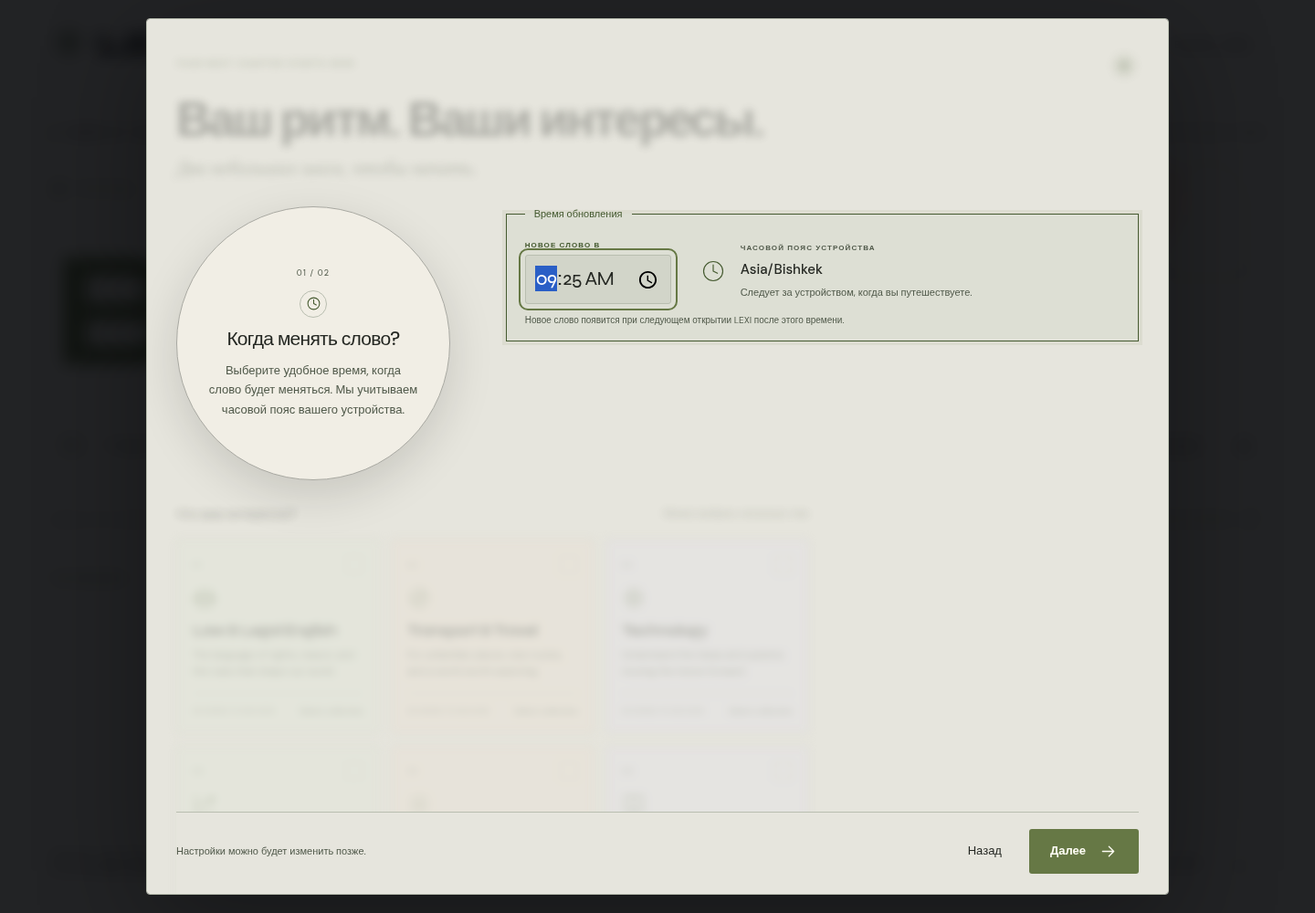
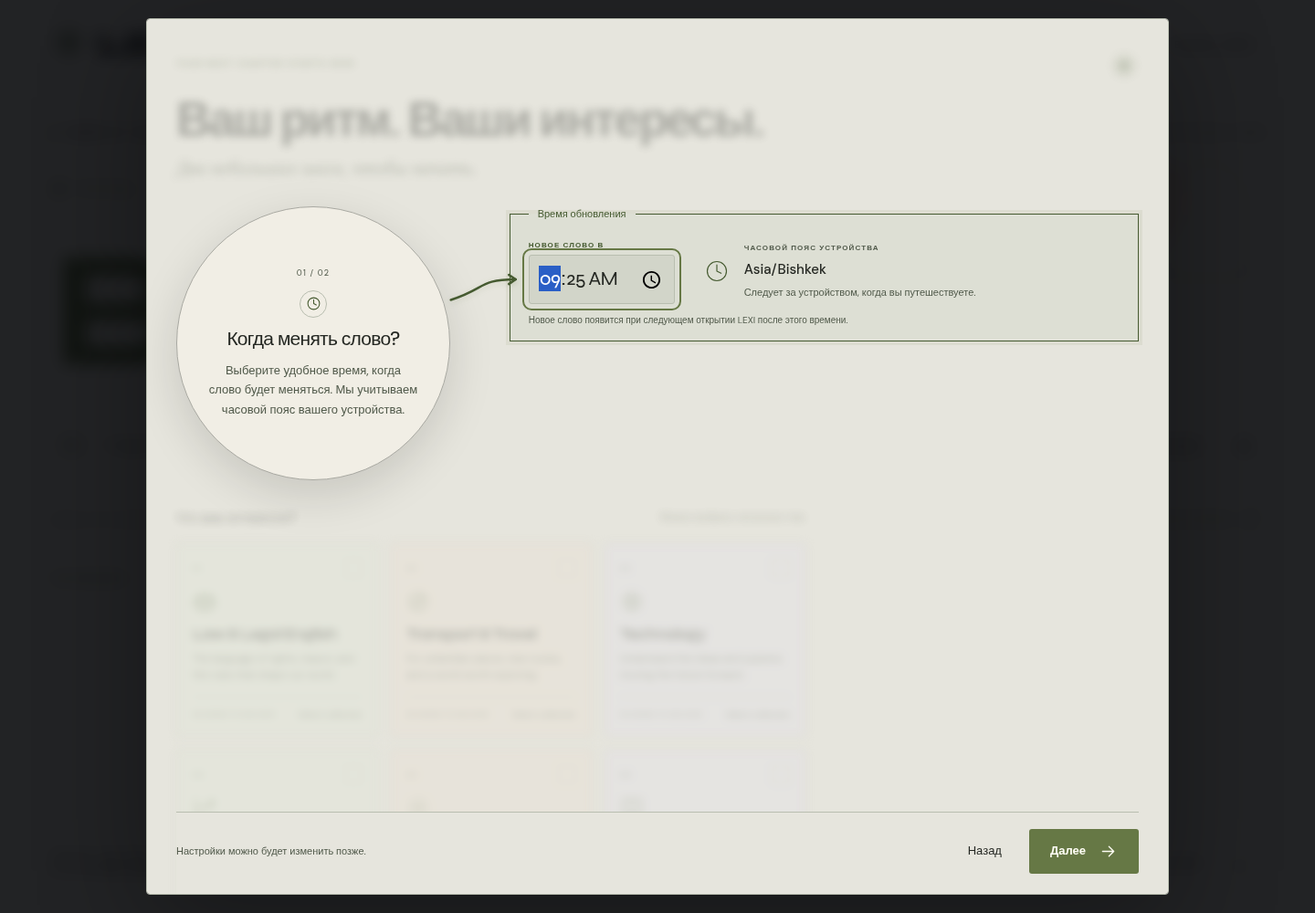
Smooth onboarding circle travel and point to active settings

Changed region(s): [[0.3438, 0.217, 0.7188, 0.372]]

diff --git a/static/js/onboarding-guide.js b/static/js/onboarding-guide.js
@@ -11,25 +11,69 @@ export function createOnboardingGuide({dialog,account,getState,saveState}) {
   const $=selector=>dialog.querySelector(selector);
   const language=$('#onboarding-language'),content=$('.onboarding-content');
   const time=$('#onboarding-time'),topics=$('#onboarding-topics'),coach=$('#onboarding-coach');
+  const pointer=$('.guide-pointer'),pointerPath=pointer.querySelector('.guide-pointer-line'),pointerHead=pointer.querySelector('.guide-pointer-head');
   const back=$('#onboarding-back'),next=$('#onboarding-next'),begin=$('#begin-button');
   const hint=document.querySelector('#settings-guide-dialog'),hintCircle=hint.querySelector('.guide-circle');
   const media=matchMedia('(prefers-reduced-motion: reduce)');
-  let step=null,scope=null,motion=null,hintScheduled=false,hintTarget=null,placeholder=null,targetStyle='',targetLabel='',hintScope=null,hintGeneration=0;
+  let step=null,scope=null,motion=null,motionFrame=0,motionScrollTo=null,pointerFrame=0,hintScheduled=false,hintTarget=null,placeholder=null,targetStyle='',targetLabel='',hintScope=null,hintGeneration=0;
   const lang=()=>Object.hasOwn(copy,getState().guideLanguage)?getState().guideLanguage:'en';
   const text=()=>copy[lang()];
   const reduced=()=>media.matches||getState().reduceMotion;
   const selected=()=>[...dialog.querySelectorAll('input[name="onboarding"]:checked')].map(input=>input.value);
   const value=()=>$('#onboarding-update-time')?.value;
-  function stopMotion(){motion?.cancel();motion=null;}
-  function moveCircle(previous) {
+  function stopMotion({finish=false}={}){cancelAnimationFrame(motionFrame);motionFrame=0;motion?.cancel();motion=null;if(finish&&motionScrollTo!==null)dialog.scrollTop=motionScrollTo;motionScrollTo=null;pointer.style.opacity='1';}
+  function positionPointer() {
+    if(!dialog.open||coach.hidden||account.isGuest||!['time','collections'].includes(step)){pointer.setAttribute('hidden','');return;}
+    const bubble=coach.getBoundingClientRect(),bounds=dialog.getBoundingClientRect();
+    const target=(step==='time'?$('#onboarding-update-time'):$('.onboarding-prompt')).getBoundingClientRect();
+    const narrow=innerWidth<=600;
+    const end=narrow?{x:target.left+target.width/2,y:target.top-12}:
+      {x:step==='time'?target.left-14:target.right+12,y:target.top+target.height/2};
+    const center={x:bubble.left+bubble.width/2,y:bubble.top+bubble.height/2};
+    const angle=Math.atan2(end.y-center.y,end.x-center.x),radius=bubble.width/2+8;
+    const start={x:center.x+Math.cos(angle)*radius,y:center.y+Math.sin(angle)*radius};
+    // Keep the decorative line inside the visible dialog; it never takes a click.
+    const outside=end.y<bounds.top+8||end.y>bounds.bottom-8||end.x<bounds.left+8||end.x>bounds.right-8;
+    pointer.toggleAttribute('hidden',outside);
+    if(outside)return;
+    pointer.style.clipPath=`inset(${Math.max(0,bounds.top+1)}px ${Math.max(0,innerWidth-bounds.right+1)}px ${Math.max(0,innerHeight-bounds.bottom+1)}px ${Math.max(0,bounds.left+1)}px)`;
+    const bend=Math.max(18,Math.min(80,Math.hypot(end.x-start.x,end.y-start.y)*.55));
+    const direction=step==='time'?1:-1;
+    const c1={x:start.x+Math.cos(angle)*bend,y:start.y+Math.sin(angle)*bend};
+    const c2=narrow?{x:end.x,y:end.y-bend}:{x:end.x-direction*bend,y:end.y};
+    const heading=Math.atan2(end.y-c2.y,end.x-c2.x),head=9,spread=.6;
+    pointerPath.setAttribute('d',`M ${start.x} ${start.y} C ${c1.x} ${c1.y}, ${c2.x} ${c2.y}, ${end.x} ${end.y}`);
+    pointerHead.setAttribute('d',`M ${end.x-head*Math.cos(heading-spread)} ${end.y-head*Math.sin(heading-spread)} L ${end.x} ${end.y} L ${end.x-head*Math.cos(heading+spread)} ${end.y-head*Math.sin(heading+spread)}`);
+  }
+  function queuePointer(){if(!motion&&!pointerFrame)pointerFrame=requestAnimationFrame(()=>{pointerFrame=0;positionPointer();});}
+  function moveCircle(previous,scrollFrom,scrollTo) {
     stopMotion();
-    if(reduced()||!coach.animate)return;
+    if(reduced()||!coach.animate){positionPointer();return;}
+    // Scroll and travel share one clock, so the panel does not jump underneath the circle.
+    if(previous?.width)dialog.scrollTop=scrollFrom;
+    scrollFrom=dialog.scrollTop;
     const current=coach.getBoundingClientRect();
-    motion=coach.animate([
-      {opacity:previous?.width ? .7 : 0,transform:previous?.width?`translate(${previous.left-current.left}px,${previous.top-current.top}px) scale(.96)`:'translateY(22px) scale(.86)'},
-      {opacity:1,transform:'translate(0,0) scale(1)'},
-    ],{duration:480,easing:'cubic-bezier(.22,1,.36,1)'});
-    motion.finished.catch(()=>{});
+    const travelling=!!previous?.width;
+    const animation=coach.animate(travelling?[
+      {transform:`translate(${previous.left-current.left}px,${previous.top-current.top}px)`},
+      {transform:'translate(0,0)'},
+    ]:[{opacity:0,transform:'translateY(16px) scale(.96)'},{opacity:1,transform:'translateY(0) scale(1)'}],
+    {duration:travelling?1200:800,easing:'cubic-bezier(.42,0,.58,1)'});
+    motion=animation;motionScrollTo=scrollTo;
+    const follow=()=>{
+      if(motion!==animation)return;
+      const progress=animation.effect.getComputedTiming().progress??0;
+      if(scrollFrom!==scrollTo)dialog.scrollTop=scrollFrom+(scrollTo-scrollFrom)*progress;
+      // Reveal the new arrow as the circle arrives, rather than drawing across the controls in transit.
+      pointer.style.opacity=String(travelling?Math.max(0,(progress-.94)/.06):progress);
+      positionPointer();motionFrame=requestAnimationFrame(follow);
+    };
+    follow();
+    animation.finished.then(()=>{
+      if(motion!==animation)return;
+      cancelAnimationFrame(motionFrame);motionFrame=0;motion=null;motionScrollTo=null;
+      dialog.scrollTop=scrollTo;pointer.style.opacity='1';positionPointer();
+    }).catch(()=>{});
   }
   function mute(node,value){node.classList.toggle('guide-muted',value);node.inert=value;if(value)node.setAttribute('aria-hidden','true');else node.removeAttribute('aria-hidden');}
   function syncControls() {
@@ -52,6 +96,8 @@ export function createOnboardingGuide({dialog,account,getState,saveState}) {
   function render(newStep,{animate=true}={}) {
     const changed=step!==newStep||scope!==account.scope;
     const previous=!coach.hidden&&changed?coach.getBoundingClientRect():null;
+    const scrollFrom=dialog.scrollTop;
+    if(changed)stopMotion();
     scope=account.scope;step=newStep;dialog.classList.add('is-guided');dialog.dataset.guideStep=step;
     const choosing=step==='language';language.hidden=!choosing;content.hidden=choosing;
     coach.hidden=choosing;back.hidden=false;next.hidden=step!=='time';begin.hidden=step!=='collections';
@@ -71,13 +117,14 @@ export function createOnboardingGuide({dialog,account,getState,saveState}) {
       else dialog.scrollTo({top:0,behavior:'instant'});
       if(choosing)$('#guide-language-title').focus({preventScroll:true});
       else {
-        if(animate)moveCircle(previous);
+        if(animate)moveCircle(previous,scrollFrom,dialog.scrollTop);
         (step==='time'?$('#onboarding-update-time'):coach.querySelector('h2')).focus({preventScroll:true});
       }
     }
+    positionPointer();
   }
   function useGuest() {
-    stopMotion();step=null;scope=account.scope;
+    stopMotion();pointer.setAttribute('hidden','');step=null;scope=account.scope;
     dialog.classList.remove('is-guided');delete dialog.dataset.guideStep;dialog.lang='en';
     language.hidden=true;content.hidden=false;coach.hidden=true;next.hidden=true;back.hidden=true;begin.hidden=false;
     for(const node of [time,topics,$('.guide-chrome')])mute(node,false);
@@ -144,7 +191,7 @@ export function createOnboardingGuide({dialog,account,getState,saveState}) {
       hint.querySelector('#guide-settings-title').textContent=t.settingsTitle;hint.querySelector('#guide-settings-copy').textContent=t.settingsBody;
       hint.querySelector('#guide-settings-done').textContent=t.done;
       hint.showModal();positionHint();hint.querySelector('h2').focus({preventScroll:true});
-      if(!reduced())hintCircle.animate([{opacity:0,transform:'translateY(18px) scale(.88)'},{opacity:1,transform:'translateY(0) scale(1)'}],{duration:480,easing:'cubic-bezier(.22,1,.36,1)'});
+      if(!reduced())hintCircle.animate([{opacity:0,transform:'translateY(16px) scale(.96)'},{opacity:1,transform:'translateY(0) scale(1)'}],{duration:800,easing:'cubic-bezier(.42,0,.58,1)'});
     });
   }
   hint.addEventListener('click',event=>{if(event.target.closest('#guide-settings-done'))finishHint();else if(event.target.closest('.guide-settings-target')){event.preventDefault();finishHint(true);}});
@@ -156,13 +203,15 @@ export function createOnboardingGuide({dialog,account,getState,saveState}) {
       restoreTarget();if(hint.open)hint.close();
     }
   });
-  window.addEventListener('resize',positionHint);
-  media.addEventListener('change',()=>{if(media.matches){stopMotion();hintCircle.getAnimations().forEach(animation=>animation.cancel());}});
+  dialog.addEventListener('scroll',queuePointer,{passive:true});
+  dialog.addEventListener('close',()=>{if(!dialog.open){stopMotion();pointer.setAttribute('hidden','');}});
+  window.addEventListener('resize',()=>{stopMotion();queuePointer();positionHint();});
+  media.addEventListener('change',()=>{if(media.matches){stopMotion({finish:true});queuePointer();hintCircle.getAnimations().forEach(animation=>animation.cancel());}});
   return {
     open(){if(account.isGuest){useGuest();return;}const state=getState();render(!state.guideLanguage||state.guideStep==='language'?'language':state.guideStep==='collections'?'collections':'time');},
     useGuest,resumeSettingsHint,
     get active(){return !account.isGuest&&dialog.classList.contains('is-guided');},
     canComplete(){return step==='collections'&&validUpdateTime(value())&&selected().length>0;},
-    cancel(){++hintGeneration;stopMotion();step=null;scope=null;hintScheduled=false;restoreTarget();if(hint.open)hint.close();},
+    cancel(){++hintGeneration;stopMotion();pointer.setAttribute('hidden','');step=null;scope=null;hintScheduled=false;restoreTarget();if(hint.open)hint.close();},
   };
 }

diff --git a/static/css/onboarding-guide.css b/static/css/onboarding-guide.css
@@ -13,7 +13,7 @@
 .onboarding-dialog.is-guided{width:min(1120px,calc(100% - 40px));padding:32px;overflow:auto;scroll-behavior:auto}
 .onboarding-dialog[data-guide-step=language]{width:min(620px,calc(100% - 32px))}
 .is-guided .guide-chrome{margin-bottom:24px;overflow-wrap:anywhere}
-.is-guided .onboarding-guide-grid{display:grid;grid-template-columns:repeat(3,minmax(0,1fr));align-items:start;gap:28px}
+.is-guided .onboarding-guide-grid{display:grid;grid-template-columns:repeat(3,minmax(0,1fr));align-items:start;gap:32px 40px}
 .is-guided #onboarding-time{grid-column:2/4;grid-row:1;margin:0;background:var(--surface)}
 .is-guided #onboarding-topics{grid-column:1/3;grid-row:2;min-width:0;scroll-margin-top:16px}
 .is-guided .onboarding-prompt{margin-top:0}
@@ -22,8 +22,10 @@
 .is-guided .onboarding-bottom{bottom:-32px;z-index:8;padding-bottom:22px;gap:20px}
 .is-guided .onboarding-bottom>p{max-width:360px}
 .guide-muted{filter:blur(5px);opacity:.3;pointer-events:none;user-select:none}
-.is-guided #onboarding-time,.is-guided #onboarding-topics,.is-guided .guide-chrome{transition:filter 300ms,opacity 300ms}
+.is-guided #onboarding-time,.is-guided #onboarding-topics,.is-guided .guide-chrome{transition:filter 650ms cubic-bezier(.42,0,.58,1),opacity 650ms cubic-bezier(.42,0,.58,1)}
 .is-guided #onboarding-time:not(.guide-muted){border-color:var(--accent-text);box-shadow:0 0 0 4px color-mix(in srgb,var(--accent) 8%,transparent)}
+.guide-pointer{position:fixed;inset:0;width:100%;height:100%;z-index:6;pointer-events:none;color:var(--accent-text)}
+.guide-pointer path{fill:none;stroke:currentColor;stroke-width:2.5;stroke-linecap:round;stroke-linejoin:round;filter:drop-shadow(0 2px 3px color-mix(in srgb,var(--accent) 18%,transparent))}
 .guide-circle{width:min(300px,100%);aspect-ratio:1;min-width:0;border:1px solid color-mix(in srgb,var(--text) 32%,var(--bg));border-radius:50%;background:var(--surface);box-shadow:0 16px 50px #0002;display:flex;flex-direction:column;align-items:center;justify-content:center;text-align:center;padding:28px;gap:11px;color:var(--text);isolation:isolate}
 .guide-number{font-size:9px;letter-spacing:.13em;line-height:1.5;color:var(--muted-readable)}
 .guide-orbit{display:grid;place-items:center;width:30px;height:30px;border:1px solid var(--border);border-radius:50%;color:var(--accent-text)}
@@ -59,7 +61,7 @@
  .guide-language-options>button{padding:16px;min-height:78px}
  .guide-language-options strong{font-size:19px}
  .is-guided .guide-chrome{margin-bottom:18px}
- .is-guided .onboarding-guide-grid{grid-template-columns:minmax(0,1fr);gap:24px}
+ .is-guided .onboarding-guide-grid{grid-template-columns:minmax(0,1fr);gap:40px}
  .is-guided #onboarding-coach{grid-column:1;grid-row:1;width:min(280px,100%)}
  .is-guided #onboarding-time{grid-column:1;grid-row:2}
  .is-guided .onboarding-rhythm .schedule-fields{display:grid;grid-template-columns:minmax(0,1fr);gap:18px}

diff --git a/templates/index.html b/templates/index.html
@@ -81,6 +81,7 @@
   <footer id="site-footer" class="site-footer"></footer>
   </div>
   <dialog id="onboarding-dialog" class="onboarding-dialog" aria-labelledby="onboarding-title">
+    <svg class="guide-pointer" aria-hidden="true" focusable="false" hidden><path class="guide-pointer-line"></path><path class="guide-pointer-head"></path></svg>
     <section id="onboarding-language" class="guide-language" hidden aria-labelledby="guide-language-title">
       <span class="eyebrow">LEXI / YOUR FIRST STEPS</span>
       <h1 id="guide-language-title" tabindex="-1">Choose your guide language<span class="accent">.</span></h1>

diff --git a/static/sw.js b/static/sw.js
@@ -1,5 +1,5 @@
 // Bump this version after changing the app shell or vocabulary schema.
-const CACHE = 'lexi-shell-v13';
+const CACHE = 'lexi-shell-v14';
 const SHELL = [
   '/', '/manifest.webmanifest', '/static/css/style.css', '/static/css/experience.css', '/static/css/account.css', '/static/css/entry.css', '/static/js/app.js',
   '/static/js/theme-init.js', '/static/js/selection.js', '/static/js/storage.js',

diff --git a/tests/browser_onboarding_guide.py b/tests/browser_onboarding_guide.py
@@ -37,6 +37,30 @@ def circle(page,selector):
     return box and abs(box['width']-box['height'])<2
 
 
+def settle(page,selector='#onboarding-coach'):
+    page.wait_for_function("selector=>[...document.querySelector(selector).getAnimations()].every(a=>a.playState!=='running')",arg=selector)
+    page.evaluate('()=>new Promise(resolve=>requestAnimationFrame(()=>requestAnimationFrame(resolve)))')
+
+
+def points_to_active(page):
+    return page.evaluate("""()=>{
+      const dialog=document.querySelector('#onboarding-dialog'),svg=dialog.querySelector('.guide-pointer');
+      if(svg.hasAttribute('hidden')||svg.getBoundingClientRect().width<1||getComputedStyle(svg).pointerEvents!=='none'||svg.getAttribute('aria-hidden')!=='true')return false;
+      const path=svg.querySelector('.guide-pointer-line'),end=path.getPointAtLength(path.getTotalLength());
+      const target=dialog.querySelector(dialog.dataset.guideStep==='time'?'#onboarding-update-time':'.onboarding-prompt').getBoundingClientRect();
+      const box=svg.getBoundingClientRect(),x=end.x+box.left,y=end.y+box.top;
+      const near=innerWidth<=600?Math.abs(y-target.top+12)<2&&x>=target.left&&x<=target.right:
+        Math.abs(y-(target.top+target.height/2))<2&&Math.abs(x-(dialog.dataset.guideStep==='time'?target.left-14:target.right+12))<2;
+      const style=getComputedStyle(path),accent=getComputedStyle(dialog).getPropertyValue('--accent-text').trim();
+      return near&&style.strokeWidth==='2.5px'&&getComputedStyle(svg).color===style.stroke&&!!accent;
+    }""")
+
+
+def show_collections(page):
+    page.evaluate("()=>document.querySelector(innerWidth<=600?'#onboarding-coach':'#onboarding-topics').scrollIntoView({block:'start',behavior:'instant'})")
+    page.evaluate('()=>new Promise(resolve=>requestAnimationFrame(()=>requestAnimationFrame(resolve)))')
+
+
 def run():
     with sync_playwright() as p:
         fixture=BrowserAccount(p,BASE)
@@ -64,22 +88,41 @@ def run():
             page.reload(wait_until='networkidle')
             expect(page.locator('#onboarding-dialog')).to_have_attribute('data-guide-step','time')
             check(page.locator('#onboarding-update-time').input_value()=='09:25' and not page.locator('#onboarding-language').is_visible(),f'{language}: reload resumes the saved time step and language')
-            page.wait_for_timeout(520)
+            settle(page)
             check(circle(page,'#onboarding-coach'),f'{language}: time explanation is a real circle')
+            check(points_to_active(page),f'{language}: an accent arrow points to the time input without taking clicks or focus')
             time_box=page.locator('#onboarding-update-time').bounding_box();zone_box=page.locator('#onboarding-schedule .schedule-timezone').bounding_box()
             check(zone_box['y']>=time_box['y']+time_box['height'] or zone_box['x']>=time_box['x']+time_box['width']+6,f'{language}: time and timezone never overlap')
             if language=='en':check(page.locator('#onboarding-coach').evaluate('e=>e.getAnimations().length===0'),'Reduced motion keeps the coach static')
             first=page.locator('#onboarding-coach').bounding_box()
             page.screenshot(path=str(OUTPUT/f'guide-{language}-time.png'))
+            for viewport in (320,390,768,1440):
+                page.set_viewport_size({'width':viewport,'height':1000});page.wait_for_timeout(80)
+                page.locator('#onboarding-update-time').scroll_into_view_if_needed();page.wait_for_timeout(50)
+                check(points_to_active(page),f'{language}: time arrow remains on target at {viewport}px')
+            page.set_viewport_size({'width':width,'height':1000});page.wait_for_timeout(80)
+            page.locator('#onboarding-dialog').evaluate("e=>e.scrollTo({top:0,behavior:'instant'})");page.wait_for_timeout(50)
             if language=='ru':
                 page.evaluate('navigator.serviceWorker.ready')
                 page.wait_for_function("async()=>!!await caches.match('/api/catalog')")
                 context.set_offline(True)
-            page.locator('#onboarding-next').click()
+            if language=='ru':
+                frames=page.evaluate("""async()=>{
+                  const circle=document.querySelector('#onboarding-coach');
+                  const points=[],start=performance.now(),read=()=>{const b=circle.getBoundingClientRect();points.push({t:performance.now()-start,x:b.x,y:b.y,opacity:getComputedStyle(circle).opacity});};
+                  read();document.querySelector('#onboarding-next').click();read();
+                  await new Promise(resolve=>{function sample(){read();if(performance.now()-start<1320)requestAnimationFrame(sample);else resolve();}requestAnimationFrame(sample);});return points;
+                }""")
+                check(len(frames)>20 and abs(frames[1]['x']-frames[0]['x'])<2 and abs(frames[1]['y']-frames[0]['y'])<2,'The circle starts its trip from its previous position without a jump')
+                early=next(f for f in frames if f['t']>=180)
+                check(early['x']>frames[0]['x'] and early['x']<frames[-1]['x']-200 and all(f['opacity']=='1' for f in frames),'Side-to-side movement accelerates gently and keeps the circle fully visible')
+                check(all(((b['x']-a['x'])**2+(b['y']-a['y'])**2)**.5<=max(8,(b['t']-a['t'])*2.2) for a,b in zip(frames,frames[1:])),'Frame-by-frame circle travel and scrolling have no abrupt position changes')
+            else:page.locator('#onboarding-next').click()
             expect(page.locator('#onboarding-dialog')).to_have_attribute('data-guide-step','collections')
             check(page.locator('#onboarding-time').evaluate('e=>e.inert&&getComputedStyle(e).filter.includes("blur")') and not page.locator('#onboarding-topics').evaluate('e=>e.inert'),f'{language}: spotlight moves from time to the collections')
             check(page.locator('#begin-button').is_disabled(),f'{language}: one or more collections are required')
-            page.wait_for_timeout(520)
+            settle(page)
+            check(points_to_active(page),f'{language}: the arrow now points to collections')
             second=page.locator('#onboarding-coach').bounding_box()
             check(second['y']>=0 and second['y']+second['height']<=1000,f'{language}: the collections explanation is visible before selecting topics')
             if width==1440:check(second['x']>first['x']+200,'The same coach moves from the left to the right of the panel')
@@ -94,14 +137,26 @@ def run():
             page.locator('#onboarding-back').click()
             expect(page.locator('#onboarding-dialog')).to_have_attribute('data-guide-step','time')
             check(page.locator('#onboarding-update-time').input_value()=='09:25' and state(page)['interests'],f'{language}: Back preserves the chosen time and collections')
+            if language=='ru':
+                page.wait_for_timeout(180);page.emulate_media(reduced_motion='reduce');settle(page)
+                check(page.locator('#onboarding-coach').evaluate('e=>e.getAnimations().length===0') and points_to_active(page),'Enabling reduced motion mid-trip finishes scrolling and keeps the time arrow in place')
+                page.emulate_media(reduced_motion='no-preference')
             page.locator('#onboarding-next').click()
+            if language=='ru':
+                page.evaluate("""async()=>{document.querySelector('#onboarding-back').click();await new Promise(r=>setTimeout(r,160));document.querySelector('#onboarding-next').click();}""")
+                settle(page)
+                check(points_to_active(page) and state(page)['guideStep']=='collections','Quick direction changes leave one circle and an arrow at the correct collection step')
             for viewport in (320,390,768,1440):
                 page.set_viewport_size({'width':viewport,'height':1000});page.wait_for_timeout(80)
+                show_collections(page)
                 check(page.locator('#onboarding-dialog').evaluate('e=>e.scrollWidth<=e.clientWidth+1') and page.evaluate('document.documentElement.scrollWidth<=innerWidth'),f'{language}: setup has no horizontal overflow at {viewport}px')
-            page.set_viewport_size({'width':width,'height':1000});page.wait_for_timeout(520)
+                check(points_to_active(page),f'{language}: collections arrow remains on target at {viewport}px')
+            page.set_viewport_size({'width':width,'height':1000});settle(page)
+            show_collections(page)
+            check(points_to_active(page),f'{language}: the collections arrow follows the layout after resizing and scrolling')
             page.screenshot(path=str(OUTPUT/f'guide-{language}-collections.png'))
             page.locator('#begin-button').click()
-            expect(page.locator('#settings-guide-dialog')).to_be_visible();page.wait_for_timeout(520)
+            expect(page.locator('#settings-guide-dialog')).to_be_visible();settle(page,'.settings-guide-circle')
             check(not page.locator('#onboarding-dialog').is_visible() and state(page)['onboarded'] and len(state(page)['history'])==1,f'{language}: completing collections closes the panel and starts real learning')
             check(page.locator('.settings-link').evaluate('e=>e.closest("#settings-guide-dialog")!==null') and page.locator('.guide-settings-placeholder').count()==1,f'{language}: the hint highlights the real gear instead of a disconnected copy')
             check(page.locator('#settings-guide-dialog').get_attribute('lang')==language and state(page)['guideStep']=='settings',f'{language}: the final hint uses the chosen language and remains unfinished until acknowledged')

diff --git a/docs/VALIDATION.md b/docs/VALIDATION.md
@@ -9,7 +9,7 @@
 - **29 браузерных проверок гостя (22 октября):** вход без заполнения формы с экрана регистрации и входа; понятное объяснение временного прогресса; выход до выбора интересов; рабочие история, избранное, карточки, время и темы внутри посещения; отсутствие записей прогресса в localStorage/sessionStorage и запросов к API состояния/фото; переподключение не сбрасывает действующий просмотр; отдельная память гостевых вкладок, выход очищает обе через BroadcastChannel; очистка DOM после выхода; повторный вход, обновление страницы, уход со страницы и закрытие вкладки не возвращают данные; мгновенный выход офлайн и завершение серверной сессии при подключении; регистрация из гостя начинает чистый профиль; вход в существующий аккаунт восстанавливает только его собственный прогресс; ошибок JavaScript нет.
 - **83 браузерные проверки Sign in / Create account (22 октября):** анимации формы и подчеркивания при постоянной высоте карточки; покадровая проверка положения обеих вкладок во время всего перехода; совпадение вертикальных координат до и после переключения на трех темах и ширинах 320/390/768/1440 px, включая гостевой диалог на высоте экрана 844 px; отдельные черновики регистрации и входа на трех темах и ширинах 320/390/768/1440 px; фокус на выбранной вкладке; отсутствие горизонтального переполнения, точное положение подчеркивания; быстрые повторные нажатия и нажатие активной вкладки; системное и встроенное уменьшение движения, включая включение посреди перехода; черновики не записываются в хранилище и не отправляются в API; гостевой диалог, очистка после закрытия, выхода, входа в гостевой режим и перезагрузки. Сценарии аккаунтов (71) и гостя (29) также повторены после изменения формы.
 - **Видимость Saved (22 октября):** нейтральные фон, рамка, иконка и счетчик без акцентной заливки/свечения во всех темах; 36 сочетаний трех тем и ширин 320/350/370/375/390/430/600/768/800/801/1024/1440 px; подпись всегда видима, высота кнопки не меньше 44 px, нет горизонтального переполнения и пересечения с логотипом; счетчик вмещает два разряда. Проверены добавление слова, открытие Saved, активное состояние и удаление. 12 axe-проверок шапки в трех темах, на 320/1440 px и в активном/неактивном состоянии — без автоматических нарушений WCAG 2 A/AA и 2.1 AA. 68 базовых браузерных проверок повторены, включая Saved и офлайн-работу.
-- **91 браузерная проверка первого инструктажа (22 октября):** выбор языка до любых настроек; русский со Studio, казахский с Noir и английский с Experimental; порядок времени и коллекций, круглая форма подсказок, переход круга слева направо на компьютере, видимость подсказки на телефоне; размытые разделы inert и не перехватывают взаимодействие; валидация времени и непустого выбора, возврат без потери данных; сохранение языка/шага/настроек, включая офлайн-перезагрузку и синхронизацию; история не записывается до завершения настройки; финальная подсказка у настоящей шестерёнки, работающий переход к Settings, подтверждение и Escape, восстановление кнопки после закрытия; повторный вход не запускает завершённый инструктаж; отсутствие переполнения на 320/390/768/1440 px и наложений времени/часового пояса. 24 axe-проверки четырёх шагов в тех же сочетаниях языков/тем на 320/1440 px — без обнаруженных автоматических нарушений WCAG 2 A/AA и 2.1 AA. Повторены 71 сценарий аккаунтов, 68 базовых сценариев, 63 сценария V2, 29 сценариев гостя и 83 сценария переключения входа.
+- **129 браузерных проверок первого инструктажа (22 октября):** выбор языка до любых настроек; русский со Studio, казахский с Noir и английский с Experimental; порядок времени и коллекций, круглая форма подсказок, переход круга слева направо на компьютере, видимость подсказки на телефоне; размытые разделы inert и не перехватывают взаимодействие; валидация времени и непустого выбора, возврат без потери данных; сохранение языка/шага/настроек, включая офлайн-перезагрузку и синхронизацию; история не записывается до завершения настройки; финальная подсказка у настоящей шестерёнки, работающий переход к Settings, подтверждение и Escape, восстановление кнопки после закрытия; повторный вход не запускает завершённый инструктаж; отсутствие переполнения на 320/390/768/1440 px и наложений времени/часового пояса. Дополнительно проверены начало движения без скачка, плавное ускорение и постоянная непрозрачность круга, покадровое перемещение вместе с прокруткой, быстрые смены направления, включение reduced motion во время перехода и акцентные стрелки к времени/коллекциям на всех четырёх ширинах. 24 axe-проверки четырёх шагов в тех же сочетаниях языков/тем на 320/1440 px повторены — без обнаруженных автоматических нарушений WCAG 2 A/AA и 2.1 AA. При добавлении инструктажа также повторялись 71 сценарий аккаунтов, 68 базовых сценариев, 63 сценария V2, 29 сценариев гостя и 83 сценария переключения входа; после изменения плавности проверялся сценарий инструктажа.
 - **19 929 сравнений Python/JavaScript** для выбора слова на разных датах и наборах интересов.
 - **600 сравнений расписания** в 8 часовых поясах, включая пропущенный/повторяющийся час, получасовой переход и зоны со смещением на 45 минут.
 - **Доступность нового стартового экрана:** axe-core, 24 сочетания регистрации/входа, трех оформлений стартового экрана и ширины 320/390/768/1440 px; нарушений WCAG 2 A/AA и 2.1 AA не обнаружено. Форма имеет непрозрачный фон, декоративные слова исключены из дерева доступности; анимацию можно остановить.

diff --git a/docs/ONBOARDING.md b/docs/ONBOARDING.md
@@ -2,11 +2,13 @@
 
 Новый зарегистрированный пользователь сначала выбирает язык объяснений: **Русский**, **Қазақша**, **English**. Выбор относится к подсказкам и кнопкам первого инструктажа; названия учебных коллекций и остальной интерфейс остаются на английском.
 
-1. **Время.** Круглая подсказка появляется слева. Время доступно для редактирования, а коллекции и декоративная часть панели размыты и `inert`. Кнопка «Далее» проверяет корректность времени. Часовой пояс берётся с устройства.
-2. **Коллекции.** Та же подсказка плавно перемещается вправо, коллекции становятся чёткими и доступными. Раздел времени размывается. Можно выбрать несколько коллекций; без выбора продолжение недоступно. «Назад» сохраняет уже введённые значения.
+1. **Время.** Круглая подсказка появляется слева, акцентная изогнутая стрелка указывает на поле времени. Время доступно для редактирования, а коллекции и декоративная часть панели размыты и `inert`. Кнопка «Далее» проверяет корректность времени. Часовой пояс берётся с устройства.
+2. **Коллекции.** Та же подсказка плавно перемещается вправо, коллекции становятся чёткими и доступными. Стрелка появляется у нового положения круга и указывает на раздел коллекций. Раздел времени размывается. Можно выбрать несколько коллекций; без выбора продолжение недоступно. «Назад» сохраняет уже введённые значения.
 3. **Настройки.** Панель закрывается. Круглая подсказка со стрелкой указывает на настоящую кнопку шестерёнки: время и коллекции можно изменить позже. «Понятно» или Escape завершает инструктаж; сама шестерёнка сразу открывает Settings. На этом этапе объяснение главного экрана не запускается.
 
 На телефоне подсказка о коллекциях появляется над списком и выравнивается вправо; кнопки перехода остаются в закреплённом нижнем блоке. Незавершённый шаг, язык и сделанный выбор сохраняются в аккаунте и его офлайн-кеше. До завершения выбора коллекций предварительный показ слова не попадает в историю. Системное и выбранное в LEXI уменьшение движения отключает анимацию.
+
+Перемещение круга занимает 1,2 секунды с плавным разгоном и остановкой; его размер и непрозрачность при переходе между шагами сохраняются. Прокрутка панели следует тому же времени анимации, а размытие меняется за 650 мс. Появление первой подсказки и подсказки к шестерёнке занимает 800 мс. Стрелка следует за прокруткой и изменением ширины окна, использует акцент выбранной темы и не перехватывает нажатия или фокус. При уменьшенном движении круг и стрелка сразу занимают нужное положение.
 
 Гостевой режим сохраняет прежнюю быструю настройку без обязательного инструктажа; его данные по-прежнему существуют только в памяти вкладки. Уже настроенным аккаунтам инструктаж автоматически не показывается.
 
@@ -29,4 +31,4 @@
 
 ## Проверка
 
-`python tests/browser_onboarding_guide.py` запускается против отдельной тестовой базы и создаёт один синтетический аккаунт. Проверяются три языка, основные шаги, офлайн-продолжение, сохранение на сервере, четыре ширины экрана, отсутствие преждевременной истории и реальная кнопка настроек. Сводка остальных проверок находится в [VALIDATION.md](VALIDATION.md).
+`python tests/browser_onboarding_guide.py` запускается против отдельной тестовой базы и создаёт один синтетический аккаунт. Проверяются три языка, основные шаги, офлайн-продолжение, сохранение на сервере, четыре ширины экрана, отсутствие преждевременной истории и реальная кнопка настроек. Также проверяются движение круга по кадрам, быстрый возврат между шагами, включение уменьшенного движения во время перехода и положение обеих стрелок после прокрутки и изменения ширины. Сводка остальных проверок находится в [VALIDATION.md](VALIDATION.md).
